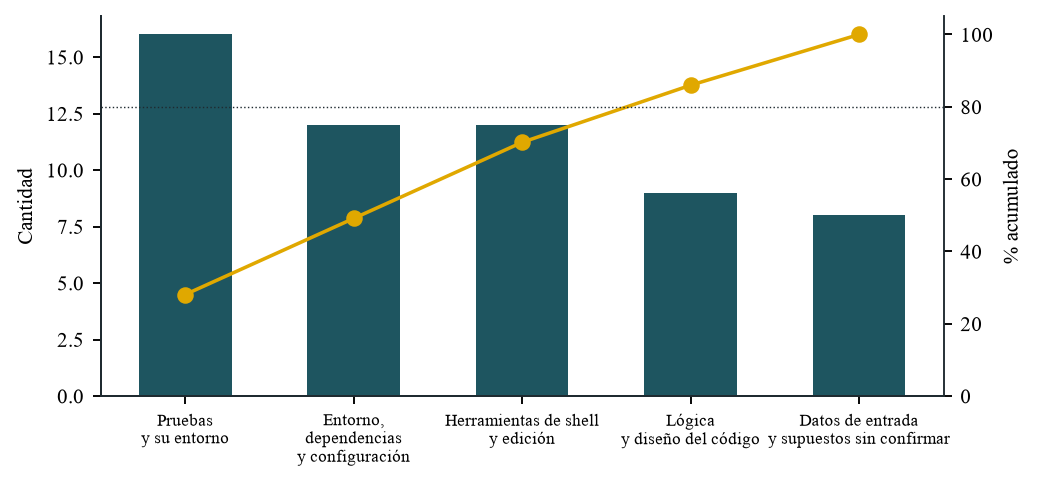
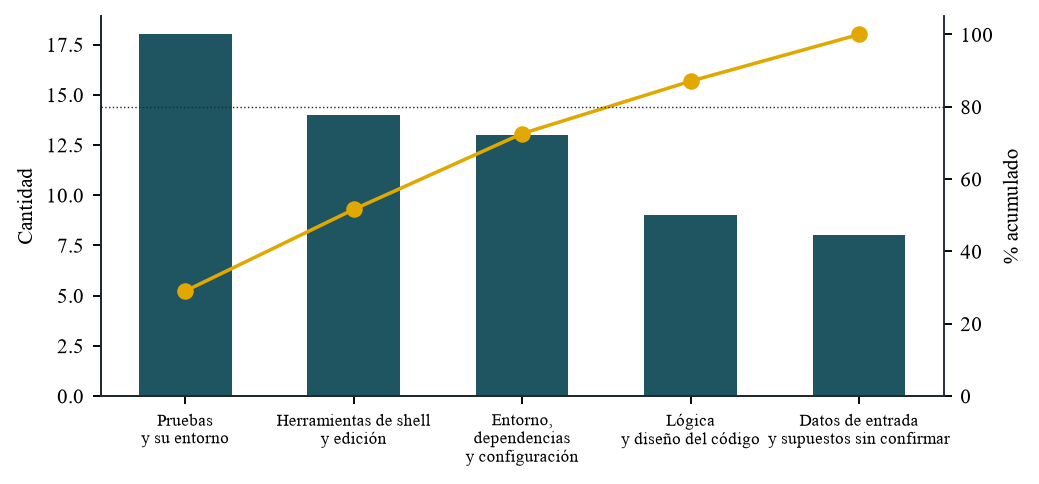
docs: register the defects found while building the fines

diff --git a/qa/datos_calidad.py b/qa/datos_calidad.py
@@ -84,6 +84,11 @@ PROBLEMAS = [
     ('Diagnóstico GPS (04-nov)', 'Saturación del pool de conexiones PostgreSQL en Odoo por db_maxconn=3', 'E'),
     ('Diagnóstico GPS (04-nov)', 'La pantalla Estado del GPS leía session.snapshot.gps en memoria y mostraba guion', 'L'),
     ('Diagnóstico GPS (04-nov)', 'CoreLocation en iOS ignora timeInterval y suspende el GPS cuando el dispositivo está inmóvil', 'L'),
+    ('Multas (20-nov)', 'Cada contenedor temporal de Odoo tenía su propio almacén de archivos y los assets respondían 500', 'E'),
+    ('Multas (20-nov)', 'El servidor de demostración seguía con el código de antes y la tableta no encontraba los endpoints nuevos', 'P'),
+    ('Multas (20-nov)', 'Un script para partir un commit falló a la mitad y dejó dos cambios en el mismo commit', 'H'),
+    ('Multas (20-nov)', 'Un heredoc de Git Bash cambió las barras invertidas de una expresión regular', 'H'),
+    ('Multas (20-nov)', 'La suite completa falla en 2 pruebas de Grafana porque la base de desarrollo sigue en 16.0.1.6.0', 'P'),
 ]
 
 # Defect log: id, date, who found it, description, where, root cause, category, status, test that guards it.
@@ -329,6 +334,18 @@ DEFECTOS = [
     ('DEF-080', '18-nov-2026', 'Uso en producción (gestor creando un recorrido)', 'Un gestor no podía crear recorridos, sincronizar un bus ni simular: «No puede crear Parada de un recorrido programado»',
      'models/bus_trip.py, models/bus_vehicle.py, models/trip_simulator.py', 'Crear un recorrido arma sus paradas, y sincronizar o simular guarda posiciones, con el usuario que pulsa el botón; los gestores no pueden crear esos registros del sistema. Las pruebas corrían como superusuario y no lo veían.',
      'Permisos', 'Cerrado', 'TestTripCreation y TestManagerActions crean, sincronizan y simulan con un gestor real; un usuario de solo lectura no puede sincronizar'),
+    ('DEF-081', '20-nov-2026', 'Revisión visual de la ficha de una multa', 'Los marcadores de inicio y fin del tramo daban 404 y salían como imagen rota',
+     'static/src/js/fine_evidence.js', 'Leaflet busca las imágenes de su marcador por defecto junto a su CSS, y el módulo solo trae leaflet.js y leaflet.css.',
+     'Interfaz', 'Cerrado', 'Inicio y fin son etiquetas HTML (divIcon); captura sin errores de consola ni 404'),
+    ('DEF-082', '20-nov-2026', 'Revisión visual del kanban de multas', 'Los montos de las multas salían sin el símbolo $',
+     'data/fine_types.xml', 'La compañía de una base nueva usa EUR y el dólar viene inactivo: el panel solo conoce las monedas activas.',
+     'Configuración', 'Cerrado', 'Los datos del módulo activan USD en cada instalación y actualización; captura del kanban con $'),
+    ('DEF-083', '20-nov-2026', 'Revisión visual de la ficha de una multa', 'El mapa de la evidencia ocupaba solo unos 300 px de ancho',
+     'static/src/css/fines.css', 'Odoo envuelve cada campo en un elemento que no ocupa todo el ancho cuando está fuera de un grupo.',
+     'Interfaz', 'Cerrado', 'CSS de ancho completo para o_field_bus_fine_evidence; captura del mapa a todo el ancho'),
+    ('DEF-084', '20-nov-2026', 'Suite completa de las fases de multas', 'test_migration_grafana falla si otra base del mismo servidor aún da permisos al rol grafana_reader',
+     'tests/test_migration_grafana.py', 'El rol es del servidor, no de una base: la base de desarrollo buses sigue en 16.0.1.6.0 con 9 permisos del rol, y DROP ROLE no puede borrarlo. La prueba supone que ninguna otra base lo usa.',
+     'Entorno', 'Abierto', 'Pendiente: actualizar la base de desarrollo a 16.0.1.10.0 (su migración 16.0.1.9.0 quita los permisos) o hacer que la prueba cree su propio rol con otro nombre'),
 ]
 
 # Ishikawa 1: why bad input reaches the system (DEF-008 to DEF-010).

diff --git a/docs/calidad/07-pareto.md b/docs/calidad/07-pareto.md
@@ -22,25 +22,25 @@ Fallos de la suite en vivo (3) y de la auditoría aleatoria (57), por causa. Las
 
 | Categoría | Defectos | % | % acumulado |
 |---|---|---|---|
-| Lógica | 25 | 31,2 % | 31,2 % |
-| Seguridad | 14 | 17,5 % | 48,8 % |
-| Configuración | 11 | 13,8 % | 62,5 % |
-| Accesibilidad y diseño | 7 | 8,8 % | 71,2 % |
-| Validación de entrada | 5 | 6,2 % | 77,5 % |
-| Entorno | 3 | 3,8 % | 81,2 % |
-| Interfaz | 3 | 3,8 % | 85,0 % |
-| Internacionalización | 3 | 3,8 % | 88,8 % |
-| Infraestructura y despliegue | 2 | 2,5 % | 91,2 % |
-| Migración | 2 | 2,5 % | 93,8 % |
-| Accesibilidad | 1 | 1,2 % | 95,0 % |
-| Contenido | 1 | 1,2 % | 96,2 % |
-| Interfaz y vistas | 1 | 1,2 % | 97,5 % |
+| Lógica | 25 | 29,8 % | 29,8 % |
+| Seguridad | 14 | 16,7 % | 46,4 % |
+| Configuración | 12 | 14,3 % | 60,7 % |
+| Accesibilidad y diseño | 7 | 8,3 % | 69,0 % |
+| Interfaz | 5 | 6,0 % | 75,0 % |
+| Validación de entrada | 5 | 6,0 % | 81,0 % |
+| Entorno | 4 | 4,8 % | 85,7 % |
+| Internacionalización | 3 | 3,6 % | 89,3 % |
+| Infraestructura y despliegue | 2 | 2,4 % | 91,7 % |
+| Migración | 2 | 2,4 % | 94,0 % |
+| Accesibilidad | 1 | 1,2 % | 95,2 % |
+| Contenido | 1 | 1,2 % | 96,4 % |
+| Interfaz y vistas | 1 | 1,2 % | 97,6 % |
 | Permisos | 1 | 1,2 % | 98,8 % |
 | Rendimiento | 1 | 1,2 % | 100,0 % |
 
-**Lectura:** con la auditoría del 2-nov la lógica y la seguridad pasan a encabezar: los defectos ya no están en la entrada de datos sino en reglas que se cumplían sólo en un lado (la vista y no el método, la tableta y no el servidor). Quedan abiertos: DEF-079, de la segunda auditoría (17-nov); de nuevo la lógica y la seguridad dominan, ahora en el despliegue y en la cola de la tableta.
+**Lectura:** con la auditoría del 2-nov la lógica y la seguridad pasan a encabezar: los defectos ya no están en la entrada de datos sino en reglas que se cumplían sólo en un lado (la vista y no el método, la tableta y no el servidor). Quedan abiertos: DEF-079, DEF-084, de la segunda auditoría (17-nov); de nuevo la lógica y la seguridad dominan, ahora en el despliegue y en la cola de la tableta.
 
-## 3. Problemas encontrados durante la construcción (57)
+## 3. Problemas encontrados durante la construcción (62)
 
 Cada viñeta de las secciones "Problemas encontrados" de la bitácora cuenta como un problema (los de la evaluación de calidad incluidos). Se clasificó cada uno en una de cinco categorías; la lista completa está al final.
 
@@ -48,11 +48,11 @@ Cada viñeta de las secciones "Problemas encontrados" de la bitácora cuenta com
 
 | Categoría | Problemas | % | % acumulado |
 |---|---|---|---|
-| Pruebas y su entorno | 16 | 28,1 % | 28,1 % |
-| Entorno, dependencias y configuración | 12 | 21,1 % | 49,1 % |
-| Herramientas de shell y edición | 12 | 21,1 % | 70,2 % |
-| Lógica y diseño del código | 9 | 15,8 % | 86,0 % |
-| Datos de entrada y supuestos sin confirmar | 8 | 14,0 % | 100,0 % |
+| Pruebas y su entorno | 18 | 29,0 % | 29,0 % |
+| Herramientas de shell y edición | 14 | 22,6 % | 51,6 % |
+| Entorno, dependencias y configuración | 13 | 21,0 % | 72,6 % |
+| Lógica y diseño del código | 9 | 14,5 % | 87,1 % |
+| Datos de entrada y supuestos sin confirmar | 8 | 12,9 % | 100,0 % |
 
 **Lectura:** más de la mitad de los problemas no estuvo en el producto sino en las **pruebas y su entorno** y en las **herramientas de shell**: tests mal escritos, bases sucias, rutas que Git Bash convierte, comillas. Con las tres primeras categorías se llega a cerca del 72 %. Acciones que salen de aquí: una base de pruebas nueva en cada corrida (ya está en `qa/ejecutar_todo.sh`), scripts en archivos y no en la línea de comandos, y versiones fijas de las dependencias.
 
@@ -119,3 +119,8 @@ Categorías: Pruebas y su entorno; Herramientas de shell y edición; Entorno, de
 | 55 | Diagnóstico GPS (04-nov) | Saturación del pool de conexiones PostgreSQL en Odoo por db_maxconn=3 | Entorno, dependencias y configuración |
 | 56 | Diagnóstico GPS (04-nov) | La pantalla Estado del GPS leía session.snapshot.gps en memoria y mostraba guion | Lógica y diseño del código |
 | 57 | Diagnóstico GPS (04-nov) | CoreLocation en iOS ignora timeInterval y suspende el GPS cuando el dispositivo está inmóvil | Lógica y diseño del código |
+| 58 | Multas (20-nov) | Cada contenedor temporal de Odoo tenía su propio almacén de archivos y los assets respondían 500 | Entorno, dependencias y configuración |
+| 59 | Multas (20-nov) | El servidor de demostración seguía con el código de antes y la tableta no encontraba los endpoints nuevos | Pruebas y su entorno |
+| 60 | Multas (20-nov) | Un script para partir un commit falló a la mitad y dejó dos cambios en el mismo commit | Herramientas de shell y edición |
+| 61 | Multas (20-nov) | Un heredoc de Git Bash cambió las barras invertidas de una expresión regular | Herramientas de shell y edición |
+| 62 | Multas (20-nov) | La suite completa falla en 2 pruebas de Grafana porque la base de desarrollo sigue en 16.0.1.6.0 | Pruebas y su entorno |

diff --git a/docs/calidad/05-registro-de-defectos.md b/docs/calidad/05-registro-de-defectos.md
@@ -88,8 +88,12 @@ Cada defecto se registra con tres campos separados: fallo observado, defecto loc
 | DEF-078 | 18-nov-2026 | Prueba de la tableta en el emulador de Android Studio | El emulador perdió el DNS y la app mostraba «Sin conexión» al iniciar sesión | Entorno (emulador Android 17) | Cerrado |
 | DEF-079 | 18-nov-2026 | Prueba de la tableta en el emulador de Android Studio | Android muestra «la aplicación no responde» durante el turno aunque la app sigue funcionando | expo-task-manager (TaskJobService) en Android 17 | Abierto |
 | DEF-080 | 18-nov-2026 | Uso en producción (gestor creando un recorrido) | Un gestor no podía crear recorridos, sincronizar un bus ni simular: «No puede crear Parada de un recorrido programado» | models/bus_trip.py, models/bus_vehicle.py, models/trip_simulator.py | Cerrado |
+| DEF-081 | 20-nov-2026 | Revisión visual de la ficha de una multa | Los marcadores de inicio y fin del tramo daban 404 y salían como imagen rota | static/src/js/fine_evidence.js | Cerrado |
+| DEF-082 | 20-nov-2026 | Revisión visual del kanban de multas | Los montos de las multas salían sin el símbolo $ | data/fine_types.xml | Cerrado |
+| DEF-083 | 20-nov-2026 | Revisión visual de la ficha de una multa | El mapa de la evidencia ocupaba solo unos 300 px de ancho | static/src/css/fines.css | Cerrado |
+| DEF-084 | 20-nov-2026 | Suite completa de las fases de multas | test_migration_grafana falla si otra base del mismo servidor aún da permisos al rol grafana_reader | tests/test_migration_grafana.py | Abierto |
 
-Resumen: 80 registrados, 79 cerrados (99 %), 1 abiertos. Densidad: 15,9 defectos por KLOC (5,033 KLOC de Python sin pruebas).
+Resumen: 84 registrados, 82 cerrados (98 %), 2 abiertos. Densidad: 16,7 defectos por KLOC (5,033 KLOC de Python sin pruebas).
 
 ## 2. Análisis de causa raíz e impacto
 
@@ -573,8 +577,33 @@ Resumen: 80 registrados, 79 cerrados (99 %), 1 abiertos. Densidad: 15,9 defectos
 - **Categoría:** Permisos
 - **Prueba que lo protege:** TestTripCreation y TestManagerActions crean, sincronizan y simulan con un gestor real; un usuario de solo lectura no puede sincronizar
 
+### DEF-081: Los marcadores de inicio y fin del tramo daban 404 y salían como imagen rota
+
+- **Causa raíz:** Leaflet busca las imágenes de su marcador por defecto junto a su CSS, y el módulo solo trae leaflet.js y leaflet.css.
+- **Categoría:** Interfaz
+- **Prueba que lo protege:** Inicio y fin son etiquetas HTML (divIcon); captura sin errores de consola ni 404
+
+### DEF-082: Los montos de las multas salían sin el símbolo $
+
+- **Causa raíz:** La compañía de una base nueva usa EUR y el dólar viene inactivo: el panel solo conoce las monedas activas.
+- **Categoría:** Configuración
+- **Prueba que lo protege:** Los datos del módulo activan USD en cada instalación y actualización; captura del kanban con $
+
+### DEF-083: El mapa de la evidencia ocupaba solo unos 300 px de ancho
+
+- **Causa raíz:** Odoo envuelve cada campo en un elemento que no ocupa todo el ancho cuando está fuera de un grupo.
+- **Categoría:** Interfaz
+- **Prueba que lo protege:** CSS de ancho completo para o_field_bus_fine_evidence; captura del mapa a todo el ancho
+
+### DEF-084: test_migration_grafana falla si otra base del mismo servidor aún da permisos al rol grafana_reader
+
+- **Causa raíz:** El rol es del servidor, no de una base: la base de desarrollo buses sigue en 16.0.1.6.0 con 9 permisos del rol, y DROP ROLE no puede borrarlo. La prueba supone que ninguna otra base lo usa.
+- **Categoría:** Entorno
+- **Prueba que lo protege:** Pendiente: actualizar la base de desarrollo a 16.0.1.10.0 (su migración 16.0.1.9.0 quita los permisos) o hacer que la prueba cree su propio rol con otro nombre
+
 ## 3. Qué falta para cerrar los abiertos
 
 Cada defecto abierto tiene su fase en `docs/arquitectura/PLAN-AUDITORIA-2.md` y la prueba que lo cerrará en la sección 2.
 
 1. DEF-079: Android muestra «la aplicación no responde» durante el turno aunque la app sigue funcionando
+2. DEF-084: test_migration_grafana falla si otra base del mismo servidor aún da permisos al rol grafana_reader

diff --git a/docs/calidad/04-resultados-y-metricas.md b/docs/calidad/04-resultados-y-metricas.md
@@ -15,7 +15,7 @@ Generado por `qa/generar_docs.py` con los datos de la ejecución del 5-nov-2026.
 | Capacidad de ingesta (100 buses, un reporte cada 10 s) | ≥ 10 req/s | 37,1 req/s | Sí |
 | Cobertura de código (sentencias y ramas) | ≥ 80 % | 95,9 % | Sí |
 | Cobertura de rutas HTTP | 100 % | 100,0 % | Sí |
-| Defectos cerrados | ≥ 90 % | 98,8 % | Sí |
+| Defectos cerrados | ≥ 90 % | 97,6 % | Sí |
 | Posiciones con datos imposibles | 0 | 0 | Sí |
 | Integridad concurrente (P6: 20 envíos iguales) | 1 guardada | 1 guardada | Sí |
 
